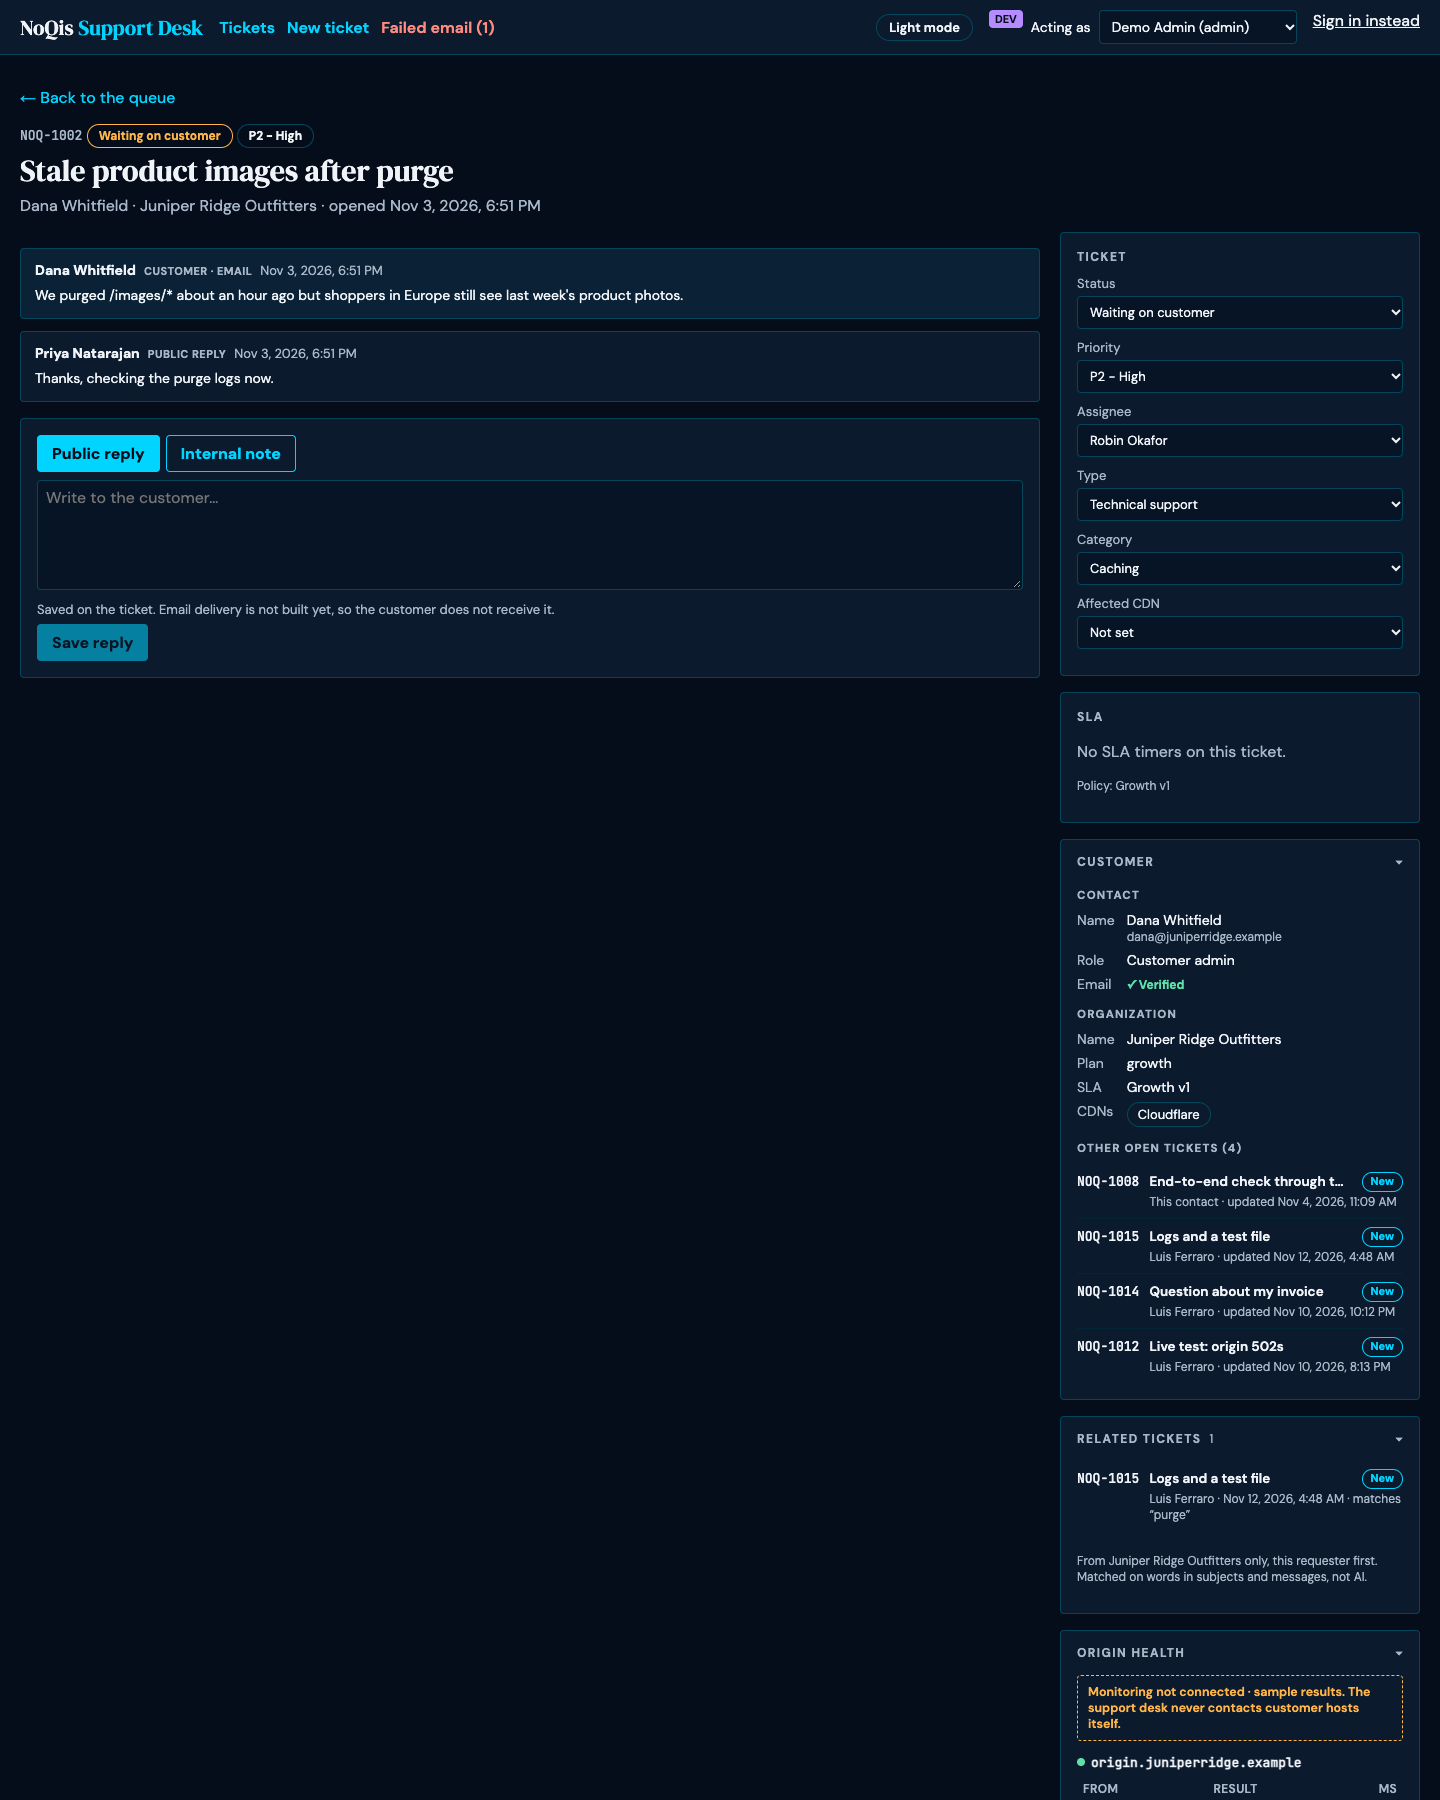
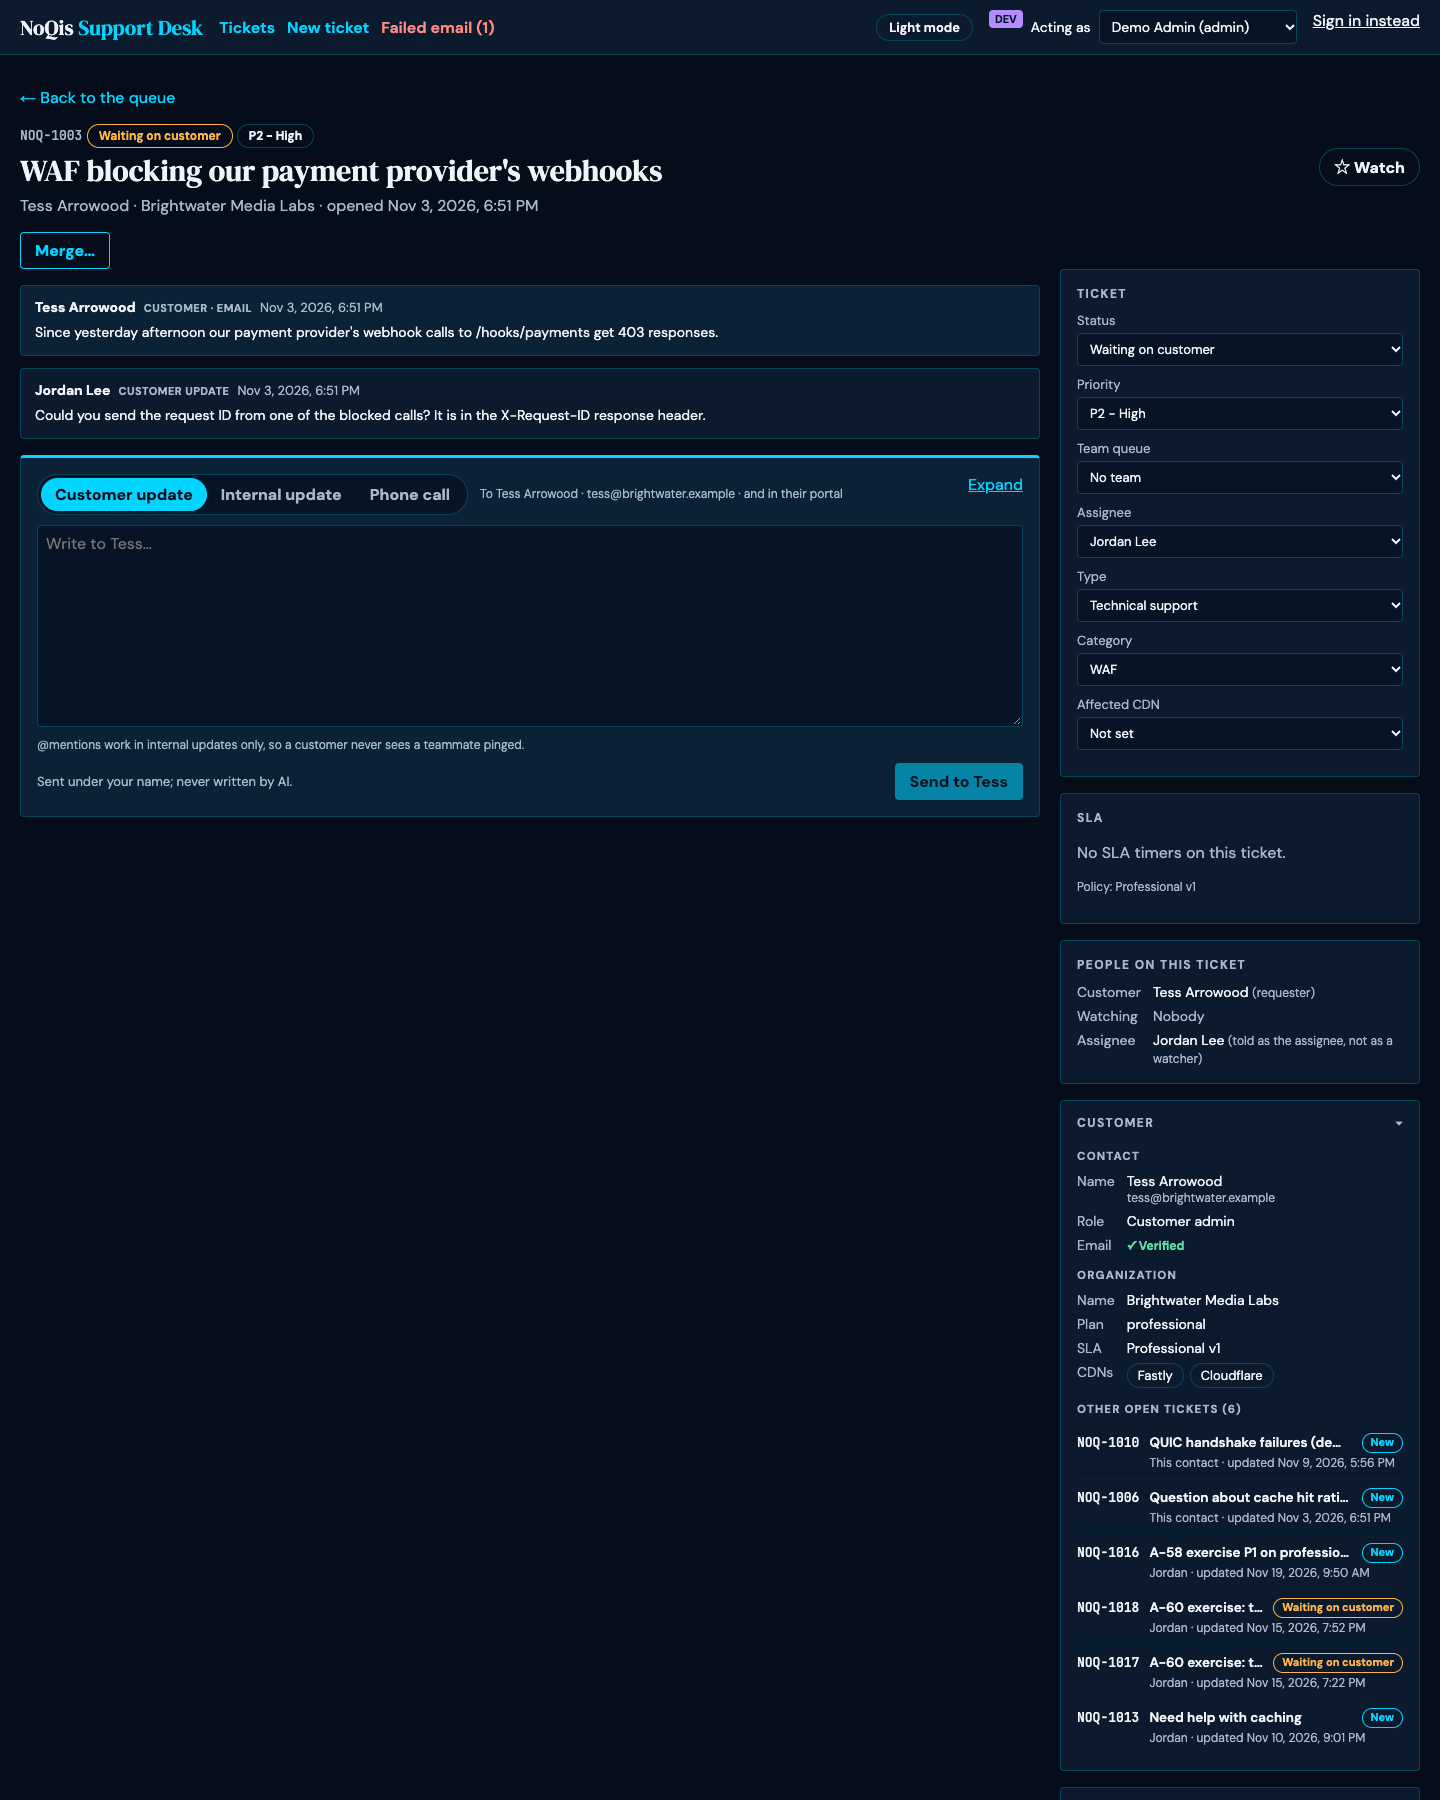
Show the update box, phone calls, and merge and spam
Phase 4 at 13 of 20: team queues, the one update box with phone calls,
watching, @mentions, and merge and spam. A new ticket-page screenshot
from the running console with invented sample data, updated counts,
and the decisions for these and for the Phase 5 portal layout.

diff --git a/index.html b/index.html
@@ -161,22 +161,23 @@ footer { color: var(--muted); font-size: 14px; border-top: 1px solid var(--line)
   <header class="top">
     <div class="ticketline">
       <span class="ref">NOQ-BUILD</span>
-      <span class="eyebrow">Shift report · November 18, 2026</span>
+      <span class="eyebrow">Shift report · November 19, 2026</span>
     </div>
     <h1>NoQis Support Desk: email, SLA timers, and an agent console in the NoQis look</h1>
     <p class="lede">Phases 0 to 3 are built: the ticket core, email in and out, and SLA timers with on-call paging.
-      Phase 4, the agent console, is over a third done. Agents work from full-width queues with live SLA countdowns,
-      filter and change tickets by type and category, see a ticket's
-      customer, related tickets, and origin health beside the conversation, and use the NoQis branding in dark mode,
-      with a light mode for anyone who prefers it. Every change still lands in Postgres with its timeline entry and an
+      Phase 4, the agent console, is nearly two thirds done. Agents work from full-width queues with live SLA countdowns,
+      filter and change tickets by type and category, move them between team queues, and write in one large update
+      box that switches between a customer update, an internal update, and a logged phone call. They watch tickets,
+      @mention teammates, merge duplicates, and mark spam, with the ticket's customer, related tickets, and origin
+      health beside the conversation, in the NoQis branding, dark by default with a light mode. Every change still lands in Postgres with its timeline entry and an
       audit entry that can't be edited after the fact.</p>
     <div class="facts" role="list">
-      <div class="fact" role="listitem"><b>1,072 / 1,072</b><span>tests passing, on Postgres 17 and 18</span></div>
-      <div class="fact" role="listitem"><b>54</b><span>plan tasks done</span></div>
-      <div class="fact" role="listitem"><b>53</b><span>database migrations</span></div>
+      <div class="fact" role="listitem"><b>1,138 / 1,138</b><span>tests passing, on Postgres 17 and 18</span></div>
+      <div class="fact" role="listitem"><b>60</b><span>plan tasks done</span></div>
+      <div class="fact" role="listitem"><b>56</b><span>database migrations</span></div>
       <div class="fact" role="listitem"><b>0</b><span>open security scan failures</span></div>
     </div>
-    <p>Work is merged into <span class="mono">main</span> through pull requests, 52 so far, each passing GitHub Actions
+    <p>Work is merged into <span class="mono">main</span> through pull requests, 59 so far, each passing GitHub Actions
       CI on PostgreSQL 17 and 18. Before every commit the change also passes scans for leaked secrets, vulnerable
       packages, and OWASP code rules, plus an active OWASP ZAP attack scan of the whole agent API. The riskiest
       changes get an independent security review, and every finding is fixed with a test.</p>
@@ -185,8 +186,9 @@ footer { color: var(--muted); font-size: 14px; border-top: 1px solid var(--line)
   <section aria-labelledby="screens-h">
     <span class="eyebrow">What an agent sees</span>
     <h2 id="screens-h">The agent console</h2>
-    <p class="later">Screens from the running console with invented sample data. Merge, tag, and watcher controls,
-      the two update boxes, and the admin screens are still to come in Phase 4.</p>
+    <p class="later">Screens from the running console with invented sample data. Still to come in Phase 4: agent
+      attachments, a warning when two agents work the same ticket, customer history, the admin screens, the audit
+      viewer, and the knowledge and AI-for-agents panels.</p>
     <div class="tabs" role="tablist" aria-label="Console screens">
       <button class="tab" role="tab" id="tab-list" aria-controls="panel" aria-selected="true" data-screen="list">Queues</button>
       <button class="tab" role="tab" id="tab-ticket" aria-controls="panel" aria-selected="false" data-screen="ticket">Ticket page</button>
@@ -265,15 +267,15 @@ footer { color: var(--muted); font-size: 14px; border-top: 1px solid var(--line)
       <div class="phase"><div class="name">Phase 1<small>Ticket core · done</small></div><div class="meter" role="img" aria-label="13 of 13 tasks"><i style="width:100%"></i></div><span class="pill done">13 / 13</span></div>
       <div class="phase"><div class="name">Phase 2<small>Email · staging test waits</small></div><div class="meter" role="img" aria-label="13 of 14 tasks"><i style="width:93%"></i></div><span class="pill done">13 / 14</span></div>
       <div class="phase"><div class="name">Phase 3<small>SLA timers · staging test waits</small></div><div class="meter" role="img" aria-label="8 of 8 tasks"><i style="width:100%"></i></div><span class="pill done">8 / 8</span></div>
-      <div class="phase here"><div class="name">Phase 4<small>Agent console · now</small></div><div class="meter" role="img" aria-label="7 of 19 tasks"><i style="width:37%"></i></div><span class="pill todo">7 / 19</span></div>
+      <div class="phase here"><div class="name">Phase 4<small>Agent console · now</small></div><div class="meter" role="img" aria-label="13 of 20 tasks"><i style="width:65%"></i></div><span class="pill todo">13 / 20</span></div>
       <div class="phase"><div class="name">Phase 5<small>Widget and portal</small></div><div class="meter" role="img" aria-label="0 of 12 tasks"><i style="width:0%"></i></div><span class="pill todo">0 / 12</span></div>
       <div class="phase"><div class="name">Phase 6<small>Launch</small></div><div class="meter" role="img" aria-label="0 of 9 tasks"><i style="width:0%"></i></div><span class="pill todo">0 / 9</span></div>
     </div>
     <p class="later">Phases 2 and 3 are built and merged; their last sign-off steps run in staging, which waits on
       hosting and DNS. Phase 4 has done sessions, queues, the ticket view, the NoQis look with light mode, the ticket
-      panels, CDN providers, and filtering and changing tickets by type and category, with a full-width layout. Next
-      on its list: moving tickets to any team's queue, including a new Dev team. Phase 5 changed too: customers will
-      sign in on the NoQis website and reach support from there, with no separate support login.</p>
+      panels, CDN providers, type and category, team queues with a new Dev team, the update box, watching,
+      @mentions, phone calls, and merge and spam. The Phase 5 customer portal is designed: customers sign in on the
+      NoQis website, open common requests in one click, and see what is waiting on them and for how long.</p>
   </section>
 
   <section aria-labelledby="decisions-h">
@@ -287,7 +289,7 @@ footer { color: var(--muted); font-size: 14px; border-top: 1px solid var(--line)
       <div class="rule"><h3>Three queues</h3><p class="how">Edge Ninjas for support, Billing for the billing department, and Escalations for tickets that need senior attention. Invoices stay in the CRM.</p><span class="where">D-08 · A-17</span></div>
       <div class="rule"><h3>Compliance</h3><p class="how">Strong controls now, a legal review before launch, and no card data stored. Customers are warned not to send card numbers, health data, or keys.</p><span class="where">D-07</span></div>
       <div class="rule"><h3>Customer portal</h3><p class="how">Customers sign in from the website's support login and see open and past tickets: status, priority (Low to Critical), whether it is pending an agent or customer update, and the conversation. They can open tickets and reply.</p><span class="where">D-11 · A-18</span></div>
-      <div class="rule"><h3>Two update boxes</h3><p class="how">On each ticket, agents get a Customer update box that goes to the customer, and an Internal update box only staff see. Every update is saved on the ticket. An @mention pings that teammate by email and Slack.</p><span class="where">A-19</span></div>
+      <div class="rule"><h3>One update box</h3><p class="how">One large box with a toggle: a Customer update goes to the customer, an Internal update only staff see. An @mention pings that teammate by email and Slack, without the update's text.</p><span class="where">A-19 · A-74 · A-76</span></div>
       <div class="rule"><h3>Unknown senders</h3><p class="how">Email from an unrecognized address goes to a triage queue for a person to sort, with no automatic reply.</p><span class="where">D-09</span></div>
       <div class="rule"><h3>Branding and hosting</h3><p class="how">NoQis branding only on customer email. Data stays in a US region, encrypted. The database is Supabase; the application host is still being chosen.</p><span class="where">D-10 · D-02</span></div>
       <div class="rule"><h3>Your Edge Ninja</h3><p class="how">An opened ticket tells the customer "Your Edge Ninja is Maya", first name only, or "billing specialist" for billing. Staff see the whole team's workload by person.</p><span class="where">A-39</span></div>
@@ -301,7 +303,10 @@ footer { color: var(--muted); font-size: 14px; border-top: 1px solid var(--line)
       <div class="rule"><h3>Billing stays separate</h3><p class="how">Invoices, accounts, and customer records stay in the billing and CRM system. The desk holds no billing data and does not connect to it for now.</p><span class="where">A-68</span></div>
       <div class="rule"><h3>Website sign-in</h3><p class="how">Customers sign in on the NoQis website's portal and reach support from there. The desk builds no customer login of its own; agents keep their own sign-in.</p><span class="where">D-14 · A-70</span></div>
       <div class="rule"><h3>Type and category</h3><p class="how">Agents filter, search, and change tickets by type and category. A new type always gets a category from its own list. The console now uses the full screen width.</p><span class="where">A-70 · A-71</span></div>
-      <div class="rule"><h3>Any team's queue</h3><p class="how">Next: agents will be able to move a ticket to any team: Edge Ninjas, Billing, Escalations, or a new Dev team.</p><span class="where">A-70</span></div>
+      <div class="rule"><h3>Any team's queue</h3><p class="how">Any agent assigns or unassigns a ticket and moves it to Escalations or Billing; only leads and admins move it to Dev. Leads hear of the important changes.</p><span class="where">A-70 · A-73</span></div>
+      <div class="rule"><h3>Phone calls count</h3><p class="how">A logged call to the customer counts as a customer update. Its summary stays with staff; the customer sees only that NoQis called.</p><span class="where">D-04 · A-77</span></div>
+      <div class="rule"><h3>Merge and spam</h3><p class="how">Duplicates merge into the older ticket by default, after the agent picks which and sees what will happen. Spam is hidden from customers and only leads and admins can undo it.</p><span class="where">A-38 · A-78</span></div>
+      <div class="rule"><h3>The customer portal</h3><p class="how">One-click common requests, summary boxes that filter the list, and a "Needs your reply" list showing how long each ticket has waited on the customer.</p><span class="where">A-72 · A-79</span></div>
     </div>
   </section>
 
@@ -331,8 +336,8 @@ pnpm db:verify-audit  <span class="c"># afterward: check the audit chain</span><
         <li><input type="checkbox" id="c8"><label for="c8">Run <span class="mono">pnpm db:verify-audit</span>. Every change you made is in the verified chain.</label></li>
       </ul>
     </div>
-    <p class="later">Built but not yet on screen: merge, tags, watchers, and the customer actions, which the rest of
-      Phase 4 and the Phase 5 portal will show. Email, SLA timers, and paging are built and switch on with
+    <p class="later">Built but not yet on screen: tags and the customer actions, which the rest of Phase 4 and the
+      Phase 5 portal will show. Email, SLA timers, and paging are built and switch on with
       configuration once hosting, DNS, and the PagerDuty and Slack accounts are in place. Not built yet: the website
       widget and the customer portal.</p>
   </section>
@@ -348,7 +353,7 @@ const shots = {
             ["Type and category", "Filter by type and category; the category list narrows to the chosen type. Search finds category names too."],
             ["Workload", "Chips show open tickets per person, unassigned first. Click one to filter the list."],
             ["SLA at a glance", "Each row shows when its next SLA target is due, or that it breached. Click a row for a side pane of the latest updates."]] },
-  ticket: { src: "screenshots/ticket-page.png", url: "127.0.0.1:5173/#/tickets/NOQ-1002", h: 1800, alt: "A ticket page with the conversation and reply box, and on the right the Ticket, SLA, Customer, Related tickets, and Origin health panels",
+  ticket: { src: "screenshots/ticket-page.png", url: "127.0.0.1:5173/#/tickets/NOQ-1003", h: 1800, alt: "A ticket page with the conversation, the update box with Customer update, Internal update, and Phone call, the Watch and Merge buttons, and on the right the Ticket, SLA, People, and Customer panels",
     notes: [["Conversation", "Customer messages, public replies, and internal notes, which are dashed and marked so they're never mistaken for replies."],
             ["Type and category", "Pickers in the Ticket card. A new type asks for a matching category before it saves."],
             ["Customer panel", "The contact, whether their email is verified, the company's plan, SLA policy, and CDNs, and their other open tickets."],

diff --git a/README.md b/README.md
@@ -2,8 +2,8 @@
 
 A one-page visual summary of the NoQis Support Desk, the email-driven ticketing system for NoQis CDN support. Phases 0
 to 3 (foundations, the ticket core, email, and SLA timers with on-call paging) are built. Phase 4, the agent console,
-is underway: queues, the ticket view, the NoQis look with a light mode, the ticket panels, CDN providers, and type
-and category filters and pickers are done.
+is nearly two thirds done: queues, the ticket view, the NoQis look with a light mode, the ticket panels, CDN
+providers, type and category, team queues, the update box, watching, @mentions, phone calls, and merge and spam.
 
 Open `index.html` in a browser. It shows:
 
@@ -15,6 +15,6 @@ Open `index.html` in a browser. It shows:
 - The decisions made so far
 
 The application code lives in [noqis-ticketing-system](https://github.com/shensabo1/noqis-ticketing-system), a private
-repository, merged through pull requests (52 so far). Last updated November 18, 2026.
+repository, merged through pull requests (59 so far). Last updated November 19, 2026.
 
 All organizations, people, and tickets shown are invented sample data.
